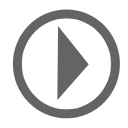
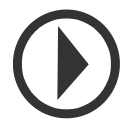
Updated buttons to have white border and changed route slightly

Changed region(s): [[0.0938, 0.0625, 0.9375, 0.9375], [0.4375, 0.2188, 0.6875, 0.7812]]

diff --git a/backend/server.py b/backend/server.py
@@ -1,7 +1,7 @@
 #/bin/python
 
 import bottle
-from bottle import template, request, redirect, response
+from bottle import template, request, redirect
 from pprint import pprint
 from models import *
 from demo_locations import route
@@ -9,16 +9,9 @@ from sqlalchemy.orm.exc import NoResultFound
 from beaker.middleware import SessionMiddleware
 from boto.ecs import ECSConnection
 
-import datetime
 import json
 import urllib
 import cgi
-import base64
-import Cookie
-import email.utils
-
-from bottle import request
-from pprint import pprint
 
 from hack.helper import *
 
@@ -45,6 +38,11 @@ def parse_user_attributes(get_request):
   # default to route
   latitude    = route[ROUTE_COUNTER].lat
   longitude   = route[ROUTE_COUNTER].lng
+  if ROUTE_COUNTER == len( route ) - 1:
+    day_state = DayState.EVENING
+  else:
+    day_state = analyze_timestamp( timestamp )
+    
   if (ROUTE_COUNTER >= len(route) - 1): 
     ROUTE_COUNTER = 0
   else: 
@@ -56,7 +54,6 @@ def parse_user_attributes(get_request):
   ax, ay, az = parse_accel(accel_data)
   if ax is not None and ay is not None and az is not None:
     user_state = analyze_accel(ax, ay, az)
-  day_state = analyze_timestamp(timestamp)
 
   return (place_type, day_state, user_state)
 
@@ -70,7 +67,10 @@ def get_user_category(place_type, day_state, user_state):
 
   if place_type is 'park' and user_state is UserState.RUNNING:
     return UserCategory.RUNNING
-  if place_type in places.WORKOUT:
+    
+  if place_type in places.TRAVEL and day_state is DayState.EVENING:
+    category = UserCategory.PRE_PARTY
+  elif place_type in places.WORKOUT:
     category = UserCategory.RUNNING
   elif place_type in places.LOWKEY:
     category = UserCategory.WALKING

diff --git a/backend/demo_locations.py b/backend/demo_locations.py
@@ -6,5 +6,5 @@ route = [
 	Coordinate(40.770857, -73.955197), 	# Gym
 	Coordinate(40.776138, -73.969048),  # Park
 	Coordinate(40.784798, -73.977556), 	# Library
-	Coordinate(40.778364, -73.981977)	# Subway
+	Coordinate(40.778364, -73.981977)   # Subway
 	]
